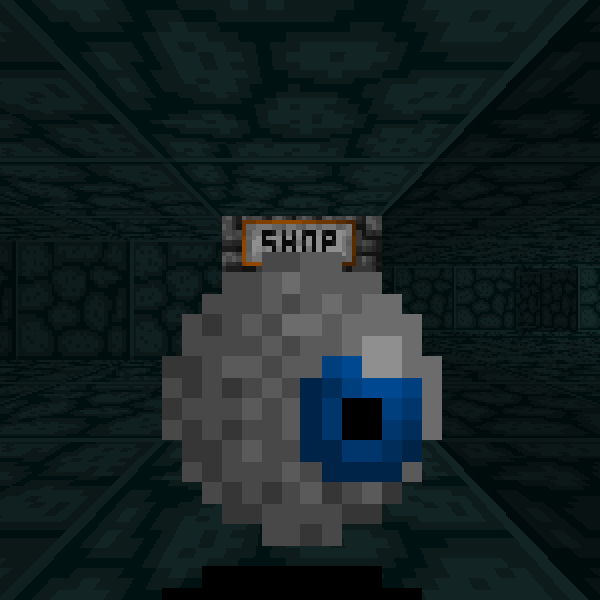
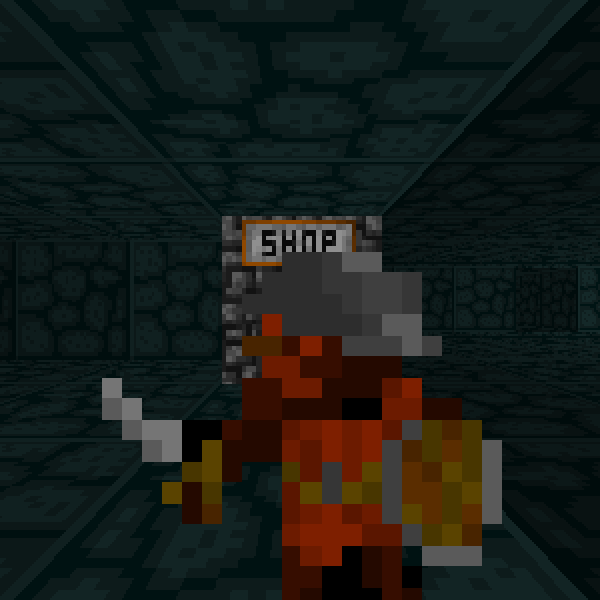
Use RLTiles goblin as monster sprite

Changed region(s): [[0.15, 0.42, 0.84, 1.0]]

diff --git a/src/Map.h b/src/Map.h
@@ -26,7 +26,7 @@ struct Map {
         // TODO destroy
         loadWallTexture("assets/rltiles/nh-dngn/floor_of_a_room.bmp", "stone");
         loadWallTexture("assets/rltiles/dc-dngn/dngn_enter_shop.bmp", "shop");
-        loadBeingTexture("assets/wee/bmps/gobwar.bmp", "gobwar");
+        loadBeingTexture("assets/goblin.bmp", "gobwar");
     }
     Texture<32, 32>*& operator[](int i) { return walls[i]; }
 

diff --git a/README.md b/README.md
@@ -91,4 +91,4 @@ Run it from the root of the repository, since assets are loaded by relative path
 ## Credits
 
 - Dungeon tiles: [RLTiles](http://rltiles.sf.net), public domain
-- Monster sprite: the RLTiles floating eye, cropped to 20×20 (stored as `assets/wee/bmps/gobwar.bmp`)
+- Monster sprite: the RLTiles goblin, scaled to 20×20 (stored as `assets/goblin.bmp`)
